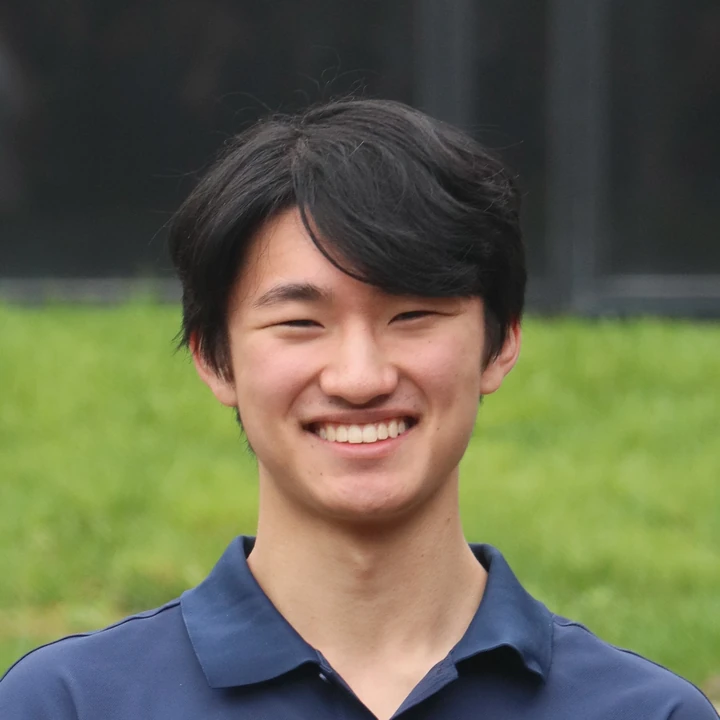
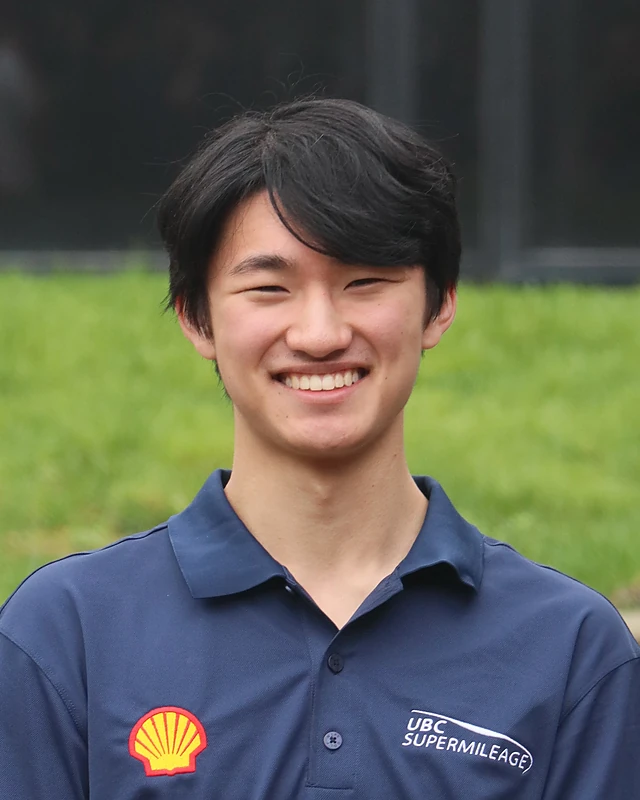
Larger head-and-shoulders portrait in hero
Claude-Session: https://claude.ai/code/session_016BkspnmeVyBsZMi8u2KtTq

diff --git a/src/components/HeroSection.tsx b/src/components/HeroSection.tsx
@@ -34,11 +34,11 @@ export function HeroSection({ onOpenProject }: { onOpenProject: (p: Project) => 
         <div className="grid grid-cols-1 items-start gap-10 lg:grid-cols-[1fr_1.1fr] lg:gap-14">
           {/* Intro */}
           <div className="lg:pt-4">
-            <div className="mb-6 flex items-center gap-4">
+            <div className="mb-6 flex items-center gap-5 sm:gap-6">
               <img
                 src={asset('img/profile.webp')}
                 alt="Aaron Li"
-                className="h-20 w-20 flex-none rounded-2xl border border-border object-cover shadow-lg sm:h-28 sm:w-28"
+                className="h-[7.5rem] w-24 flex-none rounded-2xl border border-border object-cover object-top shadow-lg sm:h-48 sm:w-[9.6rem] lg:h-52 lg:w-[10.4rem]"
               />
               <div>
                 <h1 className="text-4xl font-extrabold tracking-tight sm:text-5xl">{profile.name}</h1>
